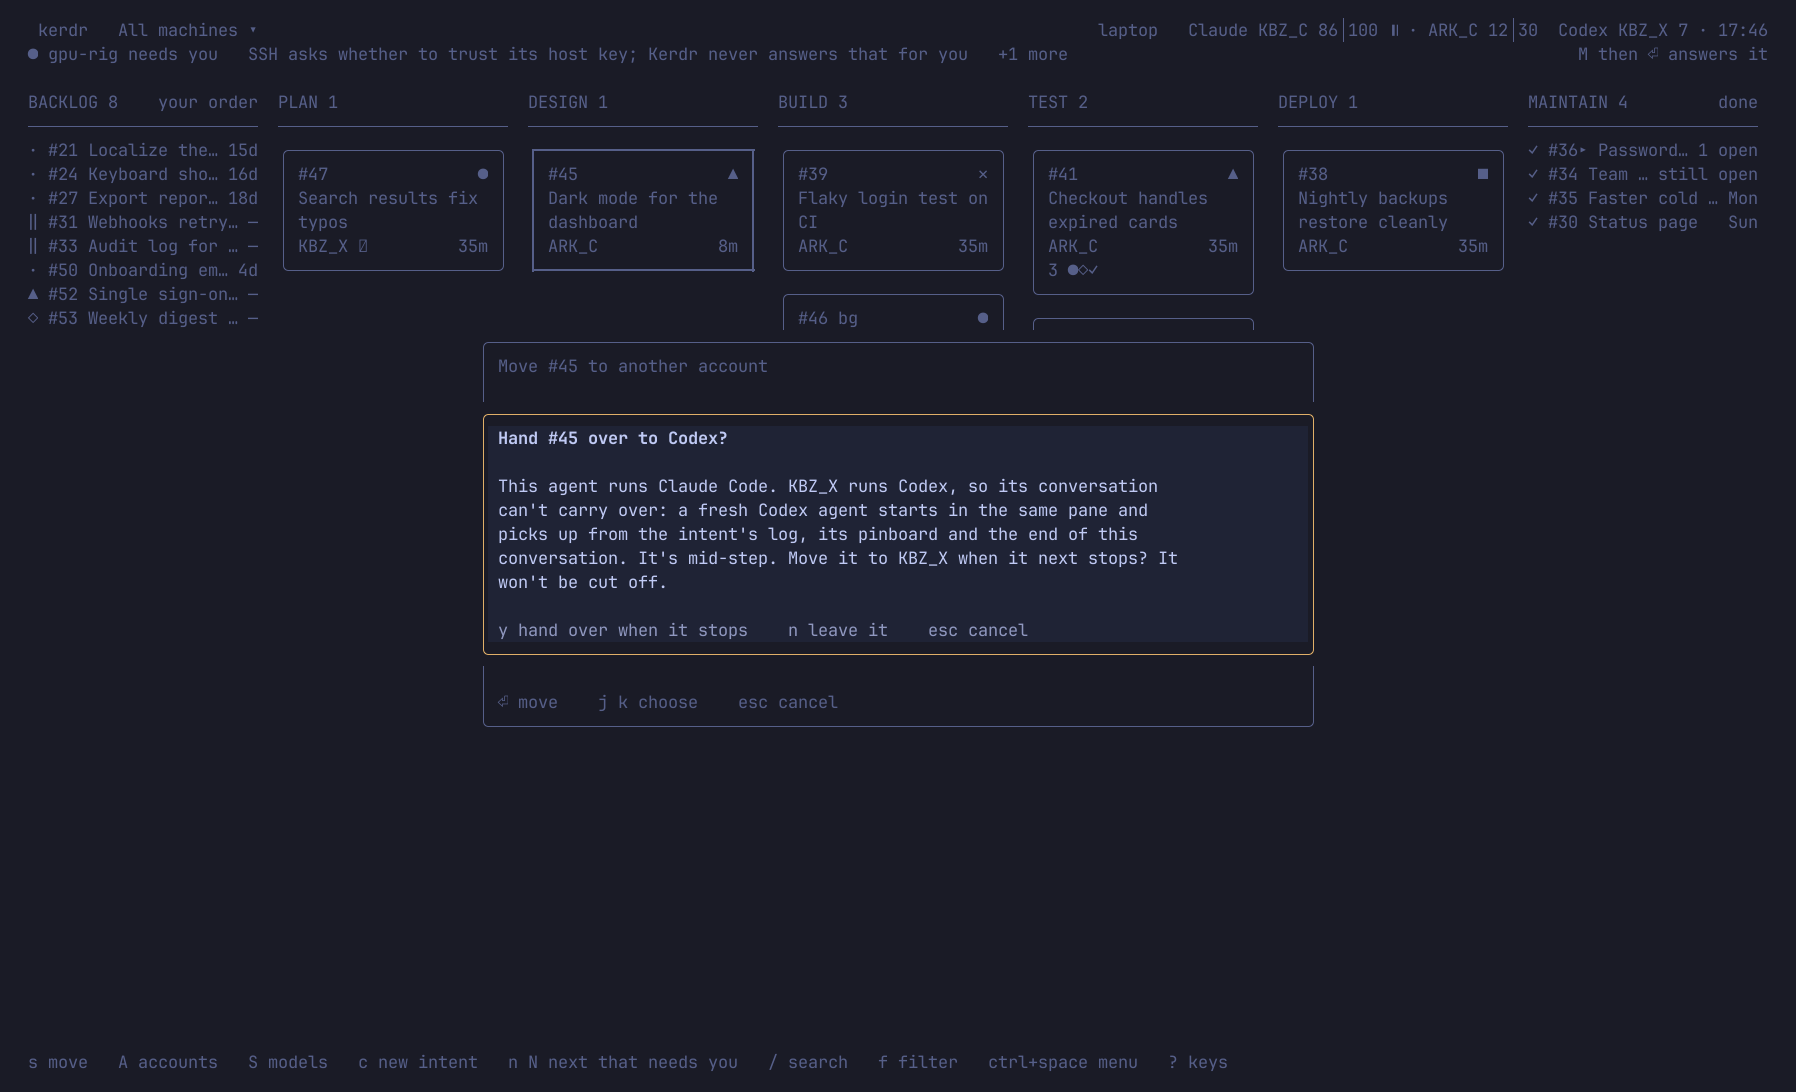
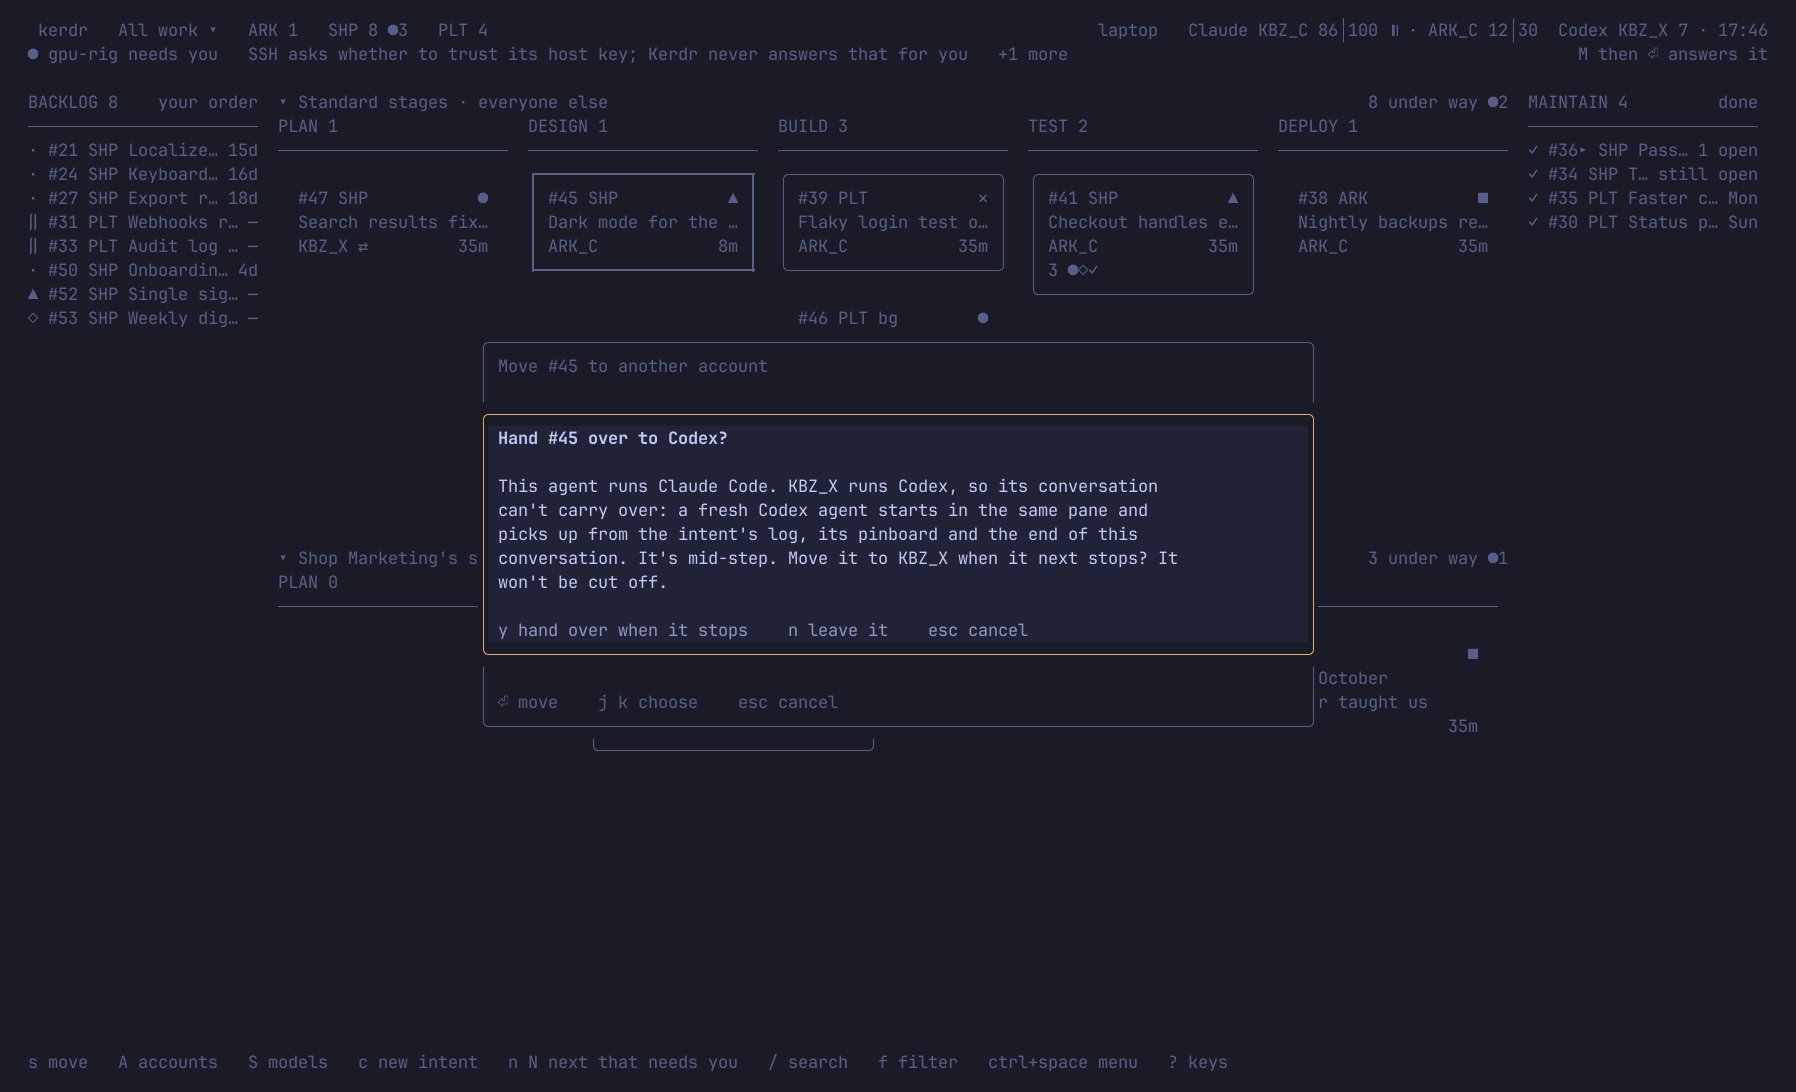
README, screenshots, hidden stages on any list

diff --git a/examples/shots.rs b/examples/shots.rs
@@ -32,15 +32,18 @@ fn load(path: &Path) -> Font {
 }
 
 fn app(away: bool) -> App {
-    let mut a = App::new(Config::default(), demo::machines(away));
+    app_with(away, Config::default())
+}
+
+fn app_with(away: bool, cfg: Config) -> App {
+    let mut a = App::new(cfg, demo::machines(away));
     a.demo = true;
     a.fixed_now = Some(demo::now());
     a.width = COLS;
+    a.height = ROWS;
     a.rebuild();
     for card in &mut a.board.cards {
         if let Some(detail) = &mut card.detail {
-            detail.organization = Some("example-studio".into());
-            detail.tenant = (card.session.as_deref() == Some("web")).then(|| "shop".into());
             detail.project = Some(card.session.clone().unwrap_or_else(|| "platform".into()));
             detail.created = Some("2026-10-01".into());
             detail.refreshed_at = Some(
@@ -328,11 +331,31 @@ fn main() {
         scroll: 0,
     };
     rasterize(&render(&keys), &fonts, &out.join("keys.png"));
-    let mut machine = app(false);
+    // The machine split, as a feed with no owners (or `[board] split = "machines"`) keeps it.
+    let mut split = Config::default();
+    split.board.split = kerdr::config::Split::Machines;
+    let mut machine = app_with(false, split);
     machine.machine = Some("build-box".into());
     machine.rebuild();
     machine.tab = 1;
     rasterize(&render(&machine), &fonts, &out.join("machine-sessions.png"));
+
+    // An owner's All, mixing its teams' stage lists in bands, and one team's own stages
+    // (intent 0595).
+    let press = |a: &mut App, keys: &str| {
+        for c in keys.chars() {
+            a.on_key(ratatui::crossterm::event::KeyEvent::new(
+                ratatui::crossterm::event::KeyCode::Char(c),
+                ratatui::crossterm::event::KeyModifiers::NONE,
+            ));
+        }
+    };
+    let mut owner = app(false);
+    press(&mut owner, "}}");
+    rasterize(&render(&owner), &fonts, &out.join("owner-teams.png"));
+    let mut team = app(false);
+    press(&mut team, "}}3");
+    rasterize(&render(&team), &fonts, &out.join("team-stages.png"));
 
     let mut backlog = app(false);
     backlog.mode = Mode::Backlog { sel: 0 };

diff --git a/src/ui.rs b/src/ui.rs
@@ -5918,18 +5918,12 @@ mod tests {
         let order = a.columns()[Stage::Build.index()].clone();
         assert_eq!(order[0], last);
         assert_eq!(a.selected().map(|c| c.key.clone()), Some(key));
-        a.on_key(ratatui::crossterm::event::KeyEvent::new(
-            ratatui::crossterm::event::KeyCode::Char('j'),
-            ratatui::crossterm::event::KeyModifiers::NONE,
-        ));
+        a.on_key(KeyEvent::new(KeyCode::Char('j'), KeyModifiers::NONE));
         assert_eq!(
             a.selected().map(|c| c.key.clone()),
             Some(a.board.cards[order[1]].key.clone())
         );
-        a.on_key(ratatui::crossterm::event::KeyEvent::new(
-            ratatui::crossterm::event::KeyCode::Char('k'),
-            ratatui::crossterm::event::KeyModifiers::NONE,
-        ));
+        a.on_key(KeyEvent::new(KeyCode::Char('k'), KeyModifiers::NONE));
         assert_eq!(
             a.selected().map(|c| c.key.clone()),
             Some(a.board.cards[order[0]].key.clone())

diff --git a/src/view_controls.rs b/src/view_controls.rs
@@ -1115,4 +1115,25 @@ mod tests {
         app.choose_scope(Scope::Session("lab".into(), "TNY-Background".into()));
         assert_eq!(*app.scope(), Scope::Owner("tinyhost".into()));
     }
+
+    #[test]
+    fn a_hidden_stage_on_any_list_leaves_the_board_and_n_opens_its_cards_own_screen() {
+        let mut app = owner_app(true);
+        app.cfg.board.hide_columns = vec!["learn".into()];
+        app.choose_view(Scope::Team("tinyhost".into(), Some("marketing".into())));
+        let layout = app.layout();
+        let vis = app.visible_in(&layout);
+        let learn = layout
+            .columns
+            .iter()
+            .position(|c| c.stage.id() == "learn")
+            .unwrap();
+        assert!(!vis[learn]);
+        app.on_key(key('n'));
+        assert!(
+            matches!(&app.mode, Mode::Card { card, .. } if card == "s:5"),
+            "{:?}",
+            app.mode
+        );
+    }
 }

diff --git a/src/inside.rs b/src/inside.rs
@@ -561,6 +561,14 @@ impl App {
                 let back = leave(&self.mode);
                 self.open_card(h, Some(key.to_string()), back);
             }
+            // A card in a working stage the config hides (intent 0595): its own screen.
+            None if (lists || matches!(self.mode, Mode::Board | Mode::Card { .. }))
+                && self.board.cards[i].stage.is_working()
+                && self.cfg.board.hides(self.board.cards[i].stage) =>
+            {
+                let back = leave(&self.mode);
+                self.open_card(i, None, back);
+            }
             // A card in a column the config hides: its own screen, the backlog's or Done's, on it.
             None if (lists || matches!(self.mode, Mode::Board | Mode::Card { .. }))
                 && self.cfg.board.hides(self.board.cards[i].stage) =>

diff --git a/README.md b/README.md
@@ -2,7 +2,7 @@
 
 **An opinionated kanban cockpit for driving [herdr](https://herdr.dev) sessions.**
 
-![Kerdr's board: every agent's work across two machines, by stage, with what needs you first](docs/screenshots/board.png)
+![Kerdr's board: every owner's work across two machines, by stage, with what needs you first](docs/screenshots/board.png)
 
 Kerdr is a full-screen board for people who run many coding agents at once in herdr. Every
 record of work becomes a card, in a column for the stage its work is at. Agent conversations
@@ -47,11 +47,14 @@ question, something stuck. Everything else keeps running without you.
 
 ## Opinionated, on purpose
 
-- **The stages are Anthropic's.** The columns are the six stages of Anthropic's
+- **The stages start as Anthropic's, and each team can have its own.** The standard columns are
+  the six stages of Anthropic's
   [AI-native SDLC playbook](https://claude.com/resources/articles/the-ai-native-sdlc-playbook):
   Plan, Design, Build, Test, Deploy and Maintain, with a Backlog in front for work that hasn't
-  started. Finished work lands in Maintain. If you'd rather give the cards more room, the config
-  can leave the Backlog and Maintain columns off the board (`hide_columns`); their work stays a
+  started. Finished work lands in Maintain. A feed can give a team a stage list of its own (a
+  marketing team's Plan, Test, Execute, Learn), and its work shows in those columns instead;
+  Backlog and Maintain stay the same for everyone. If you'd rather give the cards more room, the
+  config can leave columns off the board (`hide_columns`); Backlog's and Maintain's work stays a
   key away, in the backlog (`b`) and Done (`D`).
 - **What needs you comes first,** in every column.
 - **Work-in-progress limits.** Each herdr session holds three workspaces with an agent before
@@ -108,9 +111,46 @@ them to each machine's herdr config with `kerdr herdr-keys --install`. Then they
 herdr's own keybinds menu (`prefix ?`) under *custom*, and they work over SSH. `prefix q` works
 without them.
 
+### Owners and teams
+
+When a feed lists owners (whoever the work is for: an organization, or a tenant inside one), the
+top bar splits the board by owner, then by team. On all of Kerdr the tabs are the owners with
+work, grouped under their organization, each with how much is under way and how many cards need
+you (`ARK 1   SHP 8 ●3   PLT 4`); cards name their owner's code. `{` and `}` step through the
+owners, from wherever you are. On an owner the box in front names it, with how full its main
+session is on the machine its work runs on (`Shop · SHP`), and the tabs are its `All`, each of
+its teams, and `No team` while any of its work has none; `[` and `]` step through them, cards on
+`All` name their team, and a team with nothing open is dimmed, there to start work in. Tab goes
+to the next tab in the row, whatever it lists, `1` to `9` pick tab 1 to 9, and `0` goes back to
+all of Kerdr. Work no listed owner claims has an `Unowned` tab of its own, while there is some.
+
+![An owner's work: its teams as tabs, and a band for each stage list its teams use](docs/screenshots/owner-teams.png)
+
+Each team's work moves through its own stages, the columns between Backlog and Done on its tab.
+On a view that mixes teams with different stage lists (an owner's `All`, or all of Kerdr), Backlog
+stays on the left and Done on the right, and between them each list in view gets a band of its
+own columns, stacked and titled with whose list it is and who's on it, the bands with the most
+needing you first. Teams on the same list share a band, so a board whose teams all use one list
+looks as it always did. A band with nothing under way folds to one line, and when the bands
+don't all fit, those with nothing needing you fold first; moving onto one with `j` or `k`, or
+going to one of its cards with `n`, opens it. A card whose list or stage Kerdr wasn't sent gets a
+column of its own at the end of its band, marked as an unknown stage, never another stage's.
+
+![One team's tab: its own stages between Backlog and Done](docs/screenshots/team-stages.png)
+
+`c` files the new intent under the owner and team you're looking at (on all of Kerdr, under no
+one, and your adapter works out whose it is). A machine whose feed doesn't say its adapter takes
+a team gets the intent under the owner's No team, and the box says so before you send it.
+
+Machines leave the top bar but keep their places: `M` lists them, the line under the bar names
+one that needs you, `f` has a Machine row, a card's peek says where it runs, and `A` opens on the
+machine the chosen owner's work runs on. A feed with no owners keeps the machine split below, and
+`[board] split = "machines"` keeps it whatever the feeds list.
+
 ### Every session, every machine
 
-The leftmost tab is the machine selector: `All`, then one machine at a time with `{` and `}`.
+On the machine split (a feed that lists no owners, or `[board] split = "machines"`), the leftmost
+tab is the machine selector: `All`, then one machine at a time with `{` and `}`.
 Only the selected machine's sessions appear beside it. `[` and `]` move between those sessions,
 and `1` to `9` jump straight to a session. `0` returns to the all-machine overview. Machine and session keys work even when the current
 board is empty; the empty view shows these keys and how to reach Misc conversations.
@@ -284,14 +324,17 @@ with `wl-paste` (from wl-clipboard) under Wayland, `xclip` under X11, `osascript
 PowerShell on Windows; where there's no desktop clipboard (over SSH, say), it says so, and a
 pasted path still works.
 
-`f` opens the filters. Its list is every owner (organization or tenant) and its projects, with
-how much of each is under way and waiting; `j`/`k` or the arrows move, `/` searches the list, and
+`f` opens the filters. On the owner split its list is the tree of owners and their teams, grouped
+by organization, then the chosen owner's projects and each machine, with how much of each is under
+way and waiting; Enter on an owner or a team sets the top bar to it, so the bar and `f` are one
+choice, never two filters that can disagree. On the machine split the list is every owner
+(organization or tenant) and its projects. `j`/`k` or the arrows move, `/` searches the list, and
 Enter shows only that one. `a` (or Tab there) cycles the provider herdr reports: All, Claude,
 Codex, and additional detected providers; cards with no reported agent appear in All. `b` there
 cycles background work: every card, only cards marked `bg` (their intent's lane is background, or
 they run in a session `[board] unlimited` names), or none of them. `F` shows everything again.
-These filters combine with machine and session selection, and the top of the board names them
-while one is on. Organization work stays distinct from tenant work.
+These filters combine with the top bar's choice, and the top of the board names them while one is
+on. Organization work stays distinct from tenant work.
 
 ![The filters: who it's for, agents and background work](docs/screenshots/filter.png)
 
@@ -426,22 +469,23 @@ Account features work through the optional [feed and action contract](docs/feed.
 
 | On the board | |
 |---|---|
-| `h j k l` or arrows | move between columns and cards |
+| `h j k l` or arrows | move between columns and cards; on a board of bands, `j` and `k` go on into the band below or above |
 | `Enter` | jump in; on work nobody started, start it, as `d` does; on work whose workspace closed, reopen it; on done work, ask to reopen it (all three with actions) |
 | `m` or `Space` | peek |
 | `o` | the card's own screen: itself, then what's inside (also from the backlog and a peek); there, `j` `k` move, `Enter` goes where the row runs or opens a folded group, `Space` peeks, `d` `e` `y` `x` `C` `X` `s` act on the row, `Esc` goes back |
 | `n` / `N` | next / previous card that needs you, or work inside a card, opening its screen on it (also `Ctrl+Alt+j/k`; in the backlog and Done too) |
-| `[` / `]` | previous / next session (also `Ctrl+Alt+h/l`, `Tab`) |
-| `{` / `}` | previous / next machine (also `Ctrl+Alt+Shift+h/l`) |
-| `0`, `1`..`9` | every session, or session tab 1 to 9 |
+| `{` / `}` | previous / next owner, from wherever you are; on the machine split, machine (also `Ctrl+Alt+Shift+h/l`) |
+| `[` / `]` | previous / next of the chosen owner's tabs: All, each team, No team; on the machine split, session (also `Ctrl+Alt+h/l`) |
+| `Tab` | the next tab in the row: owners on all of Kerdr, teams on an owner, sessions on a machine |
+| `0`, `1`..`9` | all of Kerdr, or tab 1 to 9 in the row |
 | `/` | search everything; in the backlog, Won't do, Done or Misc, search only that list (`Esc` clears it) |
 | `c` | new intent, in your own words (in it, `Ctrl+V` attaches the clipboard's image) |
 | `d` `y` `x` `u` `J` `K` `t` `B` | start, still want it, won't do, bring back, move down / up, to the top, to the bottom (the selected backlog intent) |
 | `e` | edit the selected backlog intent's text, the words that started it, in your own editor: `:wq` saves it, `:cq` leaves it as it was (with actions) |
 | `C` | done: close the selected intent, starting nothing (backlog work, or started work with no workspace open; asks first). `x` sets started work with no workspace aside too |
 | `X` | cancel: stop the selected card's agent, close its workspace (or only a child's tab), and set it aside in Won't do (work an agent is at; asks first) |
-| `f` / `F` | filters / show everything: in `f`, Enter shows only one owner or project, `/` searches that list, `a` or `Tab` cycles agents, `b` cycles background work (all, bg only, no bg) |
-| `A` / `S` / `s` | accounts / the ordered models agents start on next, of the viewed session's owner, else the selected card's / move the selected card’s agent to another account, keeping its conversation, or, with none running, start it on the account you pick |
+| `f` / `F` | filters / show everything: in `f`, Enter sets the top bar to an owner or team, or shows only one project or machine, `/` searches that list, `a` or `Tab` cycles agents, `b` cycles background work (all, bg only, no bg) |
+| `A` / `S` / `s` | accounts, on the machine the chosen owner's work runs on / the ordered models agents start on next, of the chosen owner or the viewed session's, else the selected card's / move the selected card’s agent to another account, keeping its conversation, or, with none running, start it on the account you pick |
 | `a` | cycle agents: all, each program the feeds name, then any other herdr reports |
 | `b` | backlog |
 | `w` | toggle Won't do view |
@@ -581,7 +625,8 @@ slots = 3                   # workspaces with an agent per session before it's f
 unlimited = ["*-bg", "background"] # sessions with no limit; * matches any text
 skip = []                   # sessions never shown
 only = []                   # show only these sessions
-hide_columns = []           # "backlog", "maintain" or both: left off the board, for more room
+hide_columns = []           # "backlog", "maintain", or any stage's id: left off the board
+# split = "machines"        # keep the machine and session split even when a feed lists owners
 
 [[machine]]
 name = "build-box"          # the name on the board
@@ -597,10 +642,14 @@ anywhere in the name. For example, `"*-bg"` includes `pick4me-bg` and `arknet-bg
 `pick4me`; `"background"` remains an exact match. Other characters are literal, and matching
 is case-sensitive. A feed's explicit slot counts and limits still take precedence.
 
-`[board] hide_columns` leaves the Backlog or Maintain column, or both, off the board, and the
-other columns share the room. Only those two can go, since each has a screen of its own: the
-backlog (`b`) and Done (`D`). `n` still reaches a backlog card that needs you, opening the backlog
-on it.
+`[board] hide_columns` (or `hide`) leaves columns off the board, and the others share the room:
+Backlog and Maintain, each of which has a screen of its own (the backlog, `b`, and Done, `D`), and
+any stage by its id, on every stage list that has it (`"deploy"`, `"learn"`). `n` still reaches a
+backlog card that needs you, opening the backlog on it, and a hidden stage's card on its own
+screen; `/` finds them too.
+
+`[board] split` says what the top bar splits the board by: `"owners"` (the default) whenever a
+feed lists owners, else machines; `"machines"` keeps machines and their herdr sessions.
 
 The same file works on every machine: the machine whose hostname matches a `name` is "this
 machine", and Kerdr reaches the others over SSH. If you use the herdr session picker for
